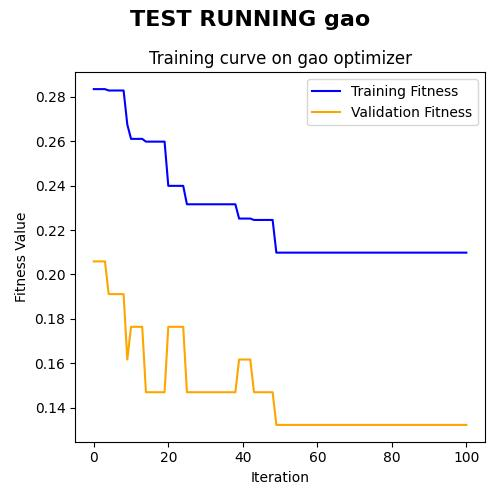
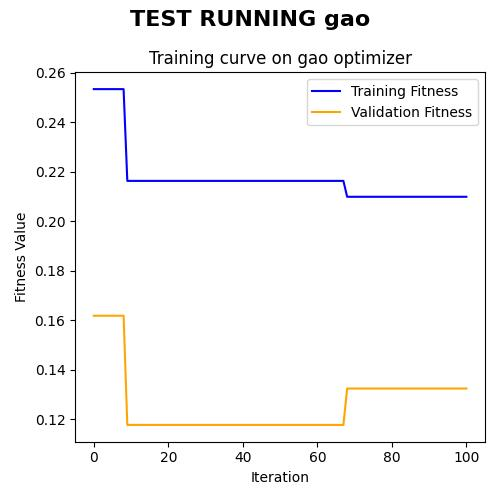
Added parameter to chose optimizer in test_utils

diff --git a/src/test_utils.py b/src/test_utils.py
@@ -6,7 +6,7 @@ from plots import *
 import matplotlib.pyplot as plt
 
 
-def default_parameters():
+def default_parameters(opt=None):
     """
     Generates a dictionary with default parameters for a machine learning algorithm.
 
@@ -15,7 +15,7 @@ def default_parameters():
         - 'k' (int): The number of neighbors to consider in the algorithm.
             - 'dataset' (dict): The dataset to be used for training and testing.
             - 'optimizer' (object): The optimizer object used for optimizing the algorithm.
-            - 'optimizer_parameters' (dict): The parameters for the optimizer.
+            - 'optimizer_parameters' (dict): The parameters for the optimizer, example:
                 - 'grasshoppers' (int): The number of grasshoppers in the optimizer.
                 - 'iterations' (int): The number of iterations for the optimizer.
                 - 'min_values' (list): The minimum values for each feature in the dataset.
@@ -29,17 +29,12 @@ def default_parameters():
                 - 'n_neighbors' (int): The number of neighbors to consider in the target function.
     """
     dataset = split_data_to_dict(load_arff_data(D2))
+    optimizer = OPTIMIZERS[opt.upper()] if opt else OPTIMIZERS[DEFAULT_OPTIMIZER]
     return {
         'k': 5,
         'dataset': dataset,
-        'optimizer': OPTIMIZERS[DEFAULT_OPTIMIZER],
-        'optimizer_parameters': {
-            'grasshoppers': 20,
-            'iterations': 100,
-            'min_values': [0] * (dataset[DATA].shape[1]),
-            'max_values': [1] * (dataset[DATA].shape[1]),
-            'binary': 's',
-        },
+        'optimizer': optimizer,
+        'optimizer_parameters': get_optimizer_parameters(opt.upper() if opt else DEFAULT_OPTIMIZER, dataset[DATA].shape[1])[0],
         'target_function_parameters': {
             'weights': np.random.uniform(low=0, high=1, size=dataset[DATA].shape[1]),
             'data': dataset,
@@ -65,16 +60,16 @@ def test_run_optimizer(optimizer=OPTIMIZERS[DEFAULT_OPTIMIZER], optimizer_parame
     # Running the optimizer
     test_fitness, fitness_values = optimizer(
         target_function=fitness, target_function_parameters=target_function_parameters, **optimizer_parameters)
-    print('Test fitness for {} optimizer in {} classifier: {}'.format(DEFAULT_OPTIMIZER,
+    print('Test fitness for {} optimizer in {} classifier: {}'.format(target_function_parameters['optimizer'],
           target_function_parameters['classifier'], round(np.mean(test_fitness), 2)))
 
     # Plotting average fitness over k folds in cross validation
     fig = plt.figure(figsize=(5, 5))
     ax = fig.add_subplot(1, 1, 1)
     plot_fitness_over_training(
-        fitness_values, ax, 'Training curve on {} optimizer'.format(DEFAULT_OPTIMIZER))
+        fitness_values, ax, 'Training curve on {} optimizer'.format(target_function_parameters['optimizer']))
 
-    fig.suptitle('TEST RUNNING {}'.format(DEFAULT_OPTIMIZER),
+    fig.suptitle('TEST RUNNING {}'.format(target_function_parameters['optimizer']),
                  fontweight='bold', fontsize=16)
     plt.tight_layout()
     plt.savefig('./images/test_optimizer_training.jpg')
@@ -97,7 +92,7 @@ def test_cross_validation(k=5, dataset=None, optimizer=OPTIMIZERS[DEFAULT_OPTIMI
     # Test cross validation
     test_fitness, fitness_values = k_fold_cross_validation(dataset=dataset, optimizator=optimizer, k=k, parameters=optimizer_parameters,
                                                            target_function_parameters=target_function_parameters)
-    print('Average test fitness over {} Folds for {} optimizer ({}): {}'.format(k, DEFAULT_OPTIMIZER, target_function_parameters['classifier'],
+    print('Average test fitness over {} Folds for {} optimizer ({}): {}'.format(k, target_function_parameters['optimizer'], target_function_parameters['classifier'],
                                                                                 round(np.mean(test_fitness), 2)))
 
     # Plotting average fitness over k folds in cross validation
@@ -113,5 +108,6 @@ def test_cross_validation(k=5, dataset=None, optimizer=OPTIMIZERS[DEFAULT_OPTIMI
 
 
 if __name__ == '__main__':
+    optimizer = 'GWE'
     test_run_optimizer(
-        **{key: value for key, value in default_parameters().items() if key != 'k' and key != 'dataset'})
+        **{key: value for key, value in default_parameters(optimizer).items() if key != 'k' and key != 'dataset'})

diff --git a/src/analysis_utils.py b/src/analysis_utils.py
@@ -137,7 +137,9 @@ def get_optimizer_parameters(optimizer=None, solution_len=2):
     optimizer_title = 'No optimizer Selected'
     parameters = {}
 
-    if optimizer == 'GAO':
+    optimizer_upper = optimizer.upper()
+
+    if optimizer_upper == 'GOA':
         parameters = {
             'grasshoppers': 20,
             'iterations': 500,
@@ -145,8 +147,8 @@ def get_optimizer_parameters(optimizer=None, solution_len=2):
             'max_values': [1] * (solution_len),
             'binary': 's',  # Best binary version in paper
         }
-        optimizer_title = 'Running GAO'
-    elif optimizer == 'DA':
+        optimizer_title = 'Running GOA'
+    elif optimizer_upper == 'DA':
         parameters = {
             'size': 20,
             'generations': 500,
@@ -155,7 +157,7 @@ def get_optimizer_parameters(optimizer=None, solution_len=2):
             'binary': 's',  # Binary version proposed in paper
         }
         optimizer_title = 'Running DA'
-    elif optimizer == 'GWO':
+    elif optimizer_upper == 'GWO':
         parameters = {
             'pack_size': 20,
             'iterations': 500,
@@ -164,7 +166,7 @@ def get_optimizer_parameters(optimizer=None, solution_len=2):
             'binary': 's',  # Best binary version in the paper
         }
         optimizer_title = 'Running GWO'
-    elif optimizer == 'WOA':
+    elif optimizer_upper == 'WOA':
         parameters = {
             'hunting_party': 20,
             'iterations': 500,

diff --git a/src/constants.py b/src/constants.py
@@ -12,10 +12,10 @@ D3 = './datasets/parkinsons.arff'
 # --------------------------------- OPTIMIZERS ----------------------------------- #
 
 OPTIMIZERS = {
-    'gao': grasshopper_optimization_algorithm,
-    'wao': whale_optimization_algorithm,
-    'da': dragonfly_algorithm,
-    'gwo': grey_wolf_optimizer,
+    'GOA': grasshopper_optimization_algorithm,
+    'WAO': whale_optimization_algorithm,
+    'DA': dragonfly_algorithm,
+    'GWO': grey_wolf_optimizer,
 }
 
 # ----------------------------------- NAMES ------------------------------------- #
@@ -27,4 +27,4 @@ SVC = 'svc'
 
 # ---------------------------------- DEFAULT ------------------------------------ #
 
-DEFAULT_OPTIMIZER = 'gao'
+DEFAULT_OPTIMIZER = 'GOA'
